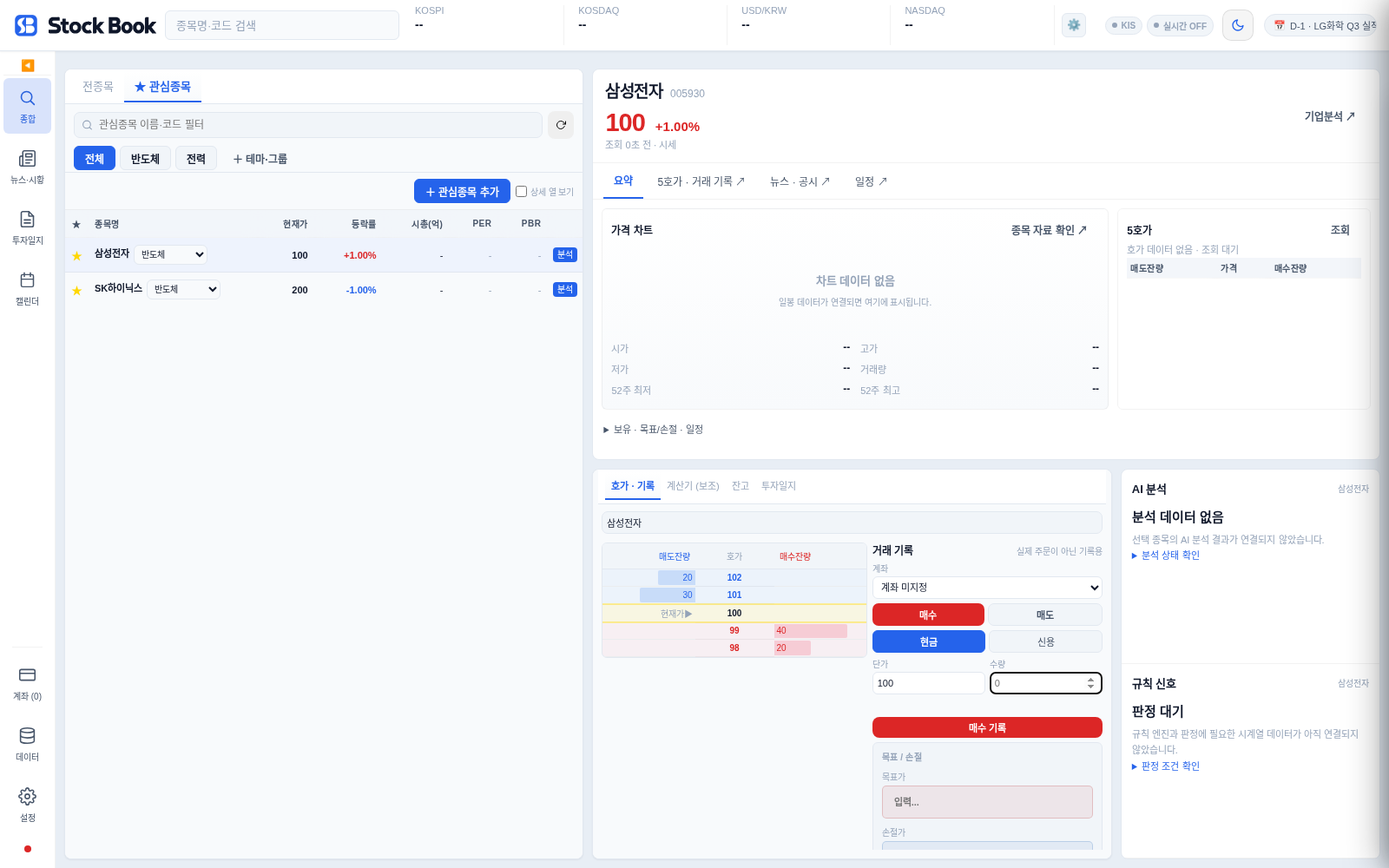
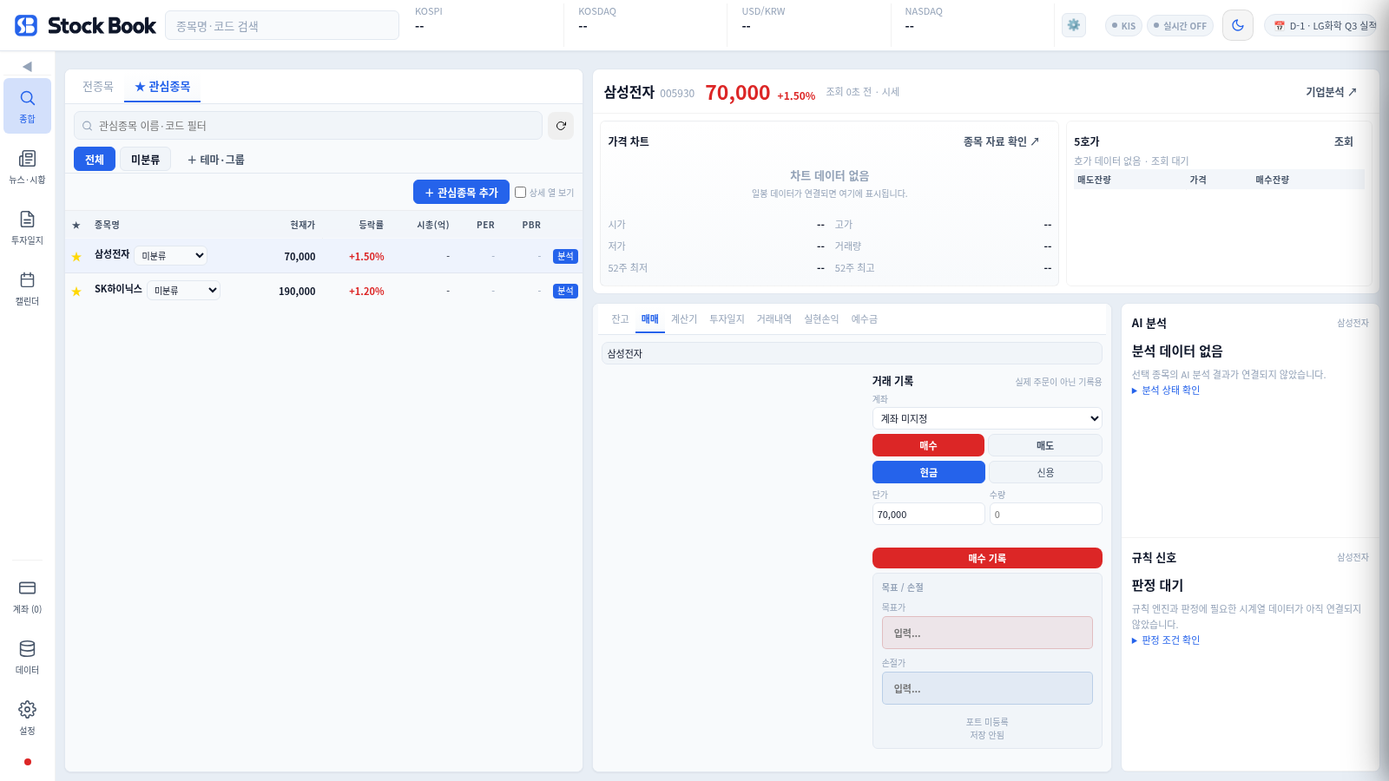
fix(ui): 종합 작업 탭과 표 중심 잔고 화면 정리

diff --git a/index.html b/index.html
@@ -3429,6 +3429,70 @@
   .mdi-dock #qo_hoga_split > div:last-child > * { grid-column:1/-1; }
   .mdi-dock #qo_hoga_split > div:last-child > .sb-trade-number { grid-column:auto;min-width:0; }
 
+
+  /* Compact quote stage, shared task strip and space for the working forms. */
+  @media (min-width: 901px) {
+    .mdi-dock.sb-desktop-home { grid-template-rows:0 minmax(240px, .65fr) minmax(360px, 1.35fr); }
+    .mdi-dock[data-dock-screen="news"] { grid-template-columns:minmax(240px,1fr) minmax(0,2fr) minmax(0,1fr); }
+  }
+  .sb-detail-head { padding:8px 12px;gap:8px; }
+  .sb-detail-head > div:first-child { display:flex;align-items:center;gap:12px;flex-wrap:wrap; }
+  .sb-detail-identity { gap:6px; }
+  .dock-ctx__name { font-size:16px;letter-spacing:0; }
+  .dock-ctx__price { font-size:23px;letter-spacing:0; }
+  .dock-ctx__chg { font-size:12px; }
+  .sb-detail-price { margin:0;gap:8px; }
+  #dockCtxQuote { font-size:11px; }
+  .sb-market-stage { padding:8px;gap:8px;grid-template-columns:minmax(0,3fr) minmax(160px,2fr); }
+  .sb-data-empty { min-height:70px;gap:4px; }
+  .sb-chart-region,.sb-order-region { padding:8px; }
+  .mdi-dock .sb-task-tabs { gap:0;padding:0 4px;min-height:36px;overflow-x:auto;scrollbar-width:thin; }
+  .mdi-dock .sb-task-tabs .mdi-ptab { flex:0 0 auto;padding:9px 8px!important;font-size:12px!important;white-space:nowrap; }
+  .mdi-dock.sb-desktop-home .pf-stats { grid-template-columns:repeat(4,minmax(0,1fr)); }
+  #mdi-panel-portfolio .section-row > .sb-table-options { margin-left:auto; }
+  .ic-body { grid-template-columns:minmax(0,1.1fr) minmax(0,1fr);grid-template-rows:minmax(0,1fr); }
+  .mdi-dock[data-dock-screen="news"] #watchlistBody.sb-compact-quotes table { min-width:0!important;width:100%; }
+  .mdi-dock[data-dock-screen="news"] #watchlistBody.sb-compact-quotes :is(th,td):not(:nth-child(1)):not(:nth-child(2)):not(:nth-child(5)) { display:none; }
+  .mdi-dock[data-dock-screen="news"] .sb-table-options > label { display:none; }
+  .ic-row { padding:8px;line-height:1.5; }
+  .ic-row .ic-title { white-space:normal;display:-webkit-box;-webkit-line-clamp:2;-webkit-box-orient:vertical; }
+  .ic-detail { max-height:none;border-top:0; }
+  .ic-detail h3 { font-size:18px;line-height:1.5; }
+  .ic-sum { font-size:14px;line-height:1.8; }
+  .sb-news-tools { display:grid;grid-template-columns:minmax(140px,1fr) auto minmax(140px,1fr); }
+  #icSearchStatus { grid-column:1/-1; }
+  @media (min-width:901px) and (max-width:1200px) {
+    .mdi-dock .sb-task-tabs .mdi-ptab { padding:9px 5px!important;font-size:11px!important; }
+    .mdi-dock.sb-desktop-home .pf-stats { grid-template-columns:repeat(2,minmax(0,1fr)); }
+  }
+  @media(max-width:900px) {
+    .ic-body { grid-template-columns:minmax(0,1fr);grid-template-rows:minmax(180px,1fr) minmax(180px,1fr); }
+    .ic-detail { border-top:1px solid var(--sb-border); }
+    .sb-news-tools { grid-template-columns:minmax(0,1fr) auto; }
+    .sb-news-tools label:last-of-type { grid-column:1/-1; }
+    .mdi-dock.sb-desktop-home .pf-stats { grid-template-columns:repeat(2,minmax(0,1fr)); }
+  }
+
+
+  /* Balance is a table workspace: a flat summary, with secondary figures on demand. */
+  #htsSummary .sb-balance-totals { display:grid;grid-template-columns:repeat(2,minmax(0,1fr));gap:0;padding:0;margin:6px 0;border-top:1px solid var(--sb-border);border-left:1px solid var(--sb-border); }
+  #htsSummary .sb-balance-metric { display:grid;grid-template-columns:64px minmax(0,1fr);align-items:baseline;gap:2px 8px;margin:0;padding:0 8px 0 0;border:0;border-right:1px solid var(--sb-border);border-bottom:1px solid var(--sb-border);border-radius:0;background:none;box-shadow:none;color:var(--sb-text-1);font:inherit;font-size:14px;text-align:left;min-width:0; }
+  #htsSummary button.sb-balance-metric { cursor:pointer; }
+  #htsSummary button.sb-balance-metric:hover > span { color:var(--sb-accent);text-decoration:underline; }
+  #htsSummary button.sb-balance-metric:focus-visible { outline:2px solid var(--sb-accent);outline-offset:3px; }
+  .sb-balance-metric > span { grid-row:1 / 3;align-self:stretch;display:flex;align-items:center;padding:7px 6px;background:var(--sb-surface);color:var(--sb-text-2);font-size:12px; }
+  .sb-balance-metric b,.sb-balance-metric small { font-family:var(--sb-font-num);font-variant-numeric:tabular-nums;overflow-wrap:anywhere; }
+  .sb-balance-metric b { font-size:15px;text-align:right;padding-top:5px; }
+  .sb-balance-metric small { grid-column:2;font-size:12px;text-align:right;padding-bottom:5px; }
+  .sb-balance-more { font-size:12px;color:var(--sb-text-2);padding:6px 0; }
+  .sb-balance-more > summary { cursor:pointer;width:fit-content; }
+  #mdi-panel-portfolio .sb-balance-more .hts-s2r-sub { border:0;border-radius:0;background:none;padding:6px 0; }
+
+  .sb-cash-summary { width:100%;border-collapse:collapse;border-block:1px solid var(--sb-border); }
+  #mdi-panel-portfolio .sb-cash-summary th { width:110px;font-size:12px;text-align:left;background:var(--sb-surface); }
+  #mdi-panel-portfolio .sb-cash-summary td { font-family:var(--sb-font-num);font-size:15px;padding:8px;text-align:right; }
+  #mdi-ptc-portfolio-rlz > .card { border:0;border-radius:0;box-shadow:none;background:none;padding:8px 0; }
+
 </style>
 </head>
 <body>
@@ -4037,18 +4101,18 @@
         </select>
       </div>
     </div>
-    <div id="realizedSummary" style="display:grid;grid-template-columns:repeat(3,1fr);gap:10px;margin-top:10px;">
-      <div style="background:var(--bg3);border:1px solid var(--border);border-radius:8px;padding:12px;text-align:center;">
-        <div style="font-size:11px;color:var(--text3);margin-bottom:4px;">총 매도 횟수</div>
-        <div id="rs_count" style="font-size:20px;font-weight:700;">-</div>
+    <div id="realizedSummary" style="display:grid;grid-template-columns:repeat(3,minmax(0,1fr));gap:0;margin-top:8px;">
+      <div style="border-bottom:1px solid var(--sb-border);padding:6px 8px;text-align:right;">
+        <div style="font-size:12px;color:var(--sb-text-2);margin-bottom:4px;text-align:left;">총 매도 횟수</div>
+        <div id="rs_count" style="font-size:15px;font-weight:700;">-</div>
       </div>
-      <div style="background:var(--bg3);border:1px solid var(--border);border-radius:8px;padding:12px;text-align:center;">
-        <div style="font-size:11px;color:var(--text3);margin-bottom:4px;">실현 손익 합계</div>
-        <div id="rs_total" style="font-size:18px;font-weight:700;">-</div>
+      <div style="border-bottom:1px solid var(--sb-border);padding:6px 8px;text-align:right;">
+        <div style="font-size:12px;color:var(--sb-text-2);margin-bottom:4px;text-align:left;">실현 손익 합계</div>
+        <div id="rs_total" style="font-size:15px;font-weight:700;">-</div>
       </div>
-      <div style="background:var(--bg3);border:1px solid var(--border);border-radius:8px;padding:12px;text-align:center;">
-        <div style="font-size:11px;color:var(--text3);margin-bottom:4px;">평균 수익률</div>
-        <div id="rs_avg" style="font-size:18px;font-weight:700;">-</div>
+      <div style="border-bottom:1px solid var(--sb-border);padding:6px 8px;text-align:right;">
+        <div style="font-size:12px;color:var(--sb-text-2);margin-bottom:4px;text-align:left;">평균 수익률</div>
+        <div id="rs_avg" style="font-size:15px;font-weight:700;">-</div>
       </div>
     </div>
   </div>
@@ -4415,9 +4479,6 @@
           <div class="sb-detail-price"><strong class="dock-ctx__price" id="dockCtxPrice">--</strong><span class="dock-ctx__chg" id="dockCtxChg">--</span></div>
           <div class="dock-ctx__none" id="dockCtxStatus" role="status"></div>
         </div><button type="button" class="sb-btn sb-btn--ghost sb-btn--sm" onclick="dockCtxAction('chart')">기업분석 ↗</button></div>
-        <div class="sb-detail-tabs" aria-label="선택 종목 메뉴">
-          <button type="button" class="active">요약</button><button type="button" onclick="dockCtxAction('hoga')">5호가 · 거래 기록 ↗</button><button type="button" onclick="dockCtxAction('news')">뉴스 · 공시 ↗</button><button type="button" onclick="dockCtxAction('cal')">일정 ↗</button>
-        </div>
         <div class="sb-market-stage">
           <section class="sb-chart-region" aria-label="선택 종목 차트"><div class="sb-region-title"><strong>가격 차트</strong><button type="button" class="sb-btn sb-btn--ghost sb-btn--sm" onclick="dockCtxAction('chart')">종목 자료 확인 ↗</button></div><div class="sb-data-empty"><strong>차트 데이터 없음</strong><span>일봉 데이터가 연결되면 여기에 표시됩니다.</span></div><div class="dock-ctx__rows dock-ctx__quote-grid" id="dockCtxQuote"></div></section>
           <section class="sb-order-region" aria-label="선택 종목 5호가"><div class="sb-region-title"><strong>5호가</strong><button type="button" class="sb-btn sb-btn--ghost sb-btn--sm" id="sbHogaRefresh" onclick="sbDesktopHoga()">조회</button></div><div id="sbHogaStatus" class="dock-ctx__none" role="status">호가 데이터 없음 · 조회 대기</div><table class="sb-hoga-table"><thead><tr><th>매도잔량</th><th>가격</th><th>매수잔량</th></tr></thead><tbody id="sbHogaRows"></tbody></table></section>
@@ -7303,8 +7364,7 @@ function connectToHoga(code, name) {
     if (hidden && window._MDI?.open) window._MDI.open('trading');
   }
   // 주문/호가 탭 활성화 (첫 번째 탭)
-  const hogaTab = panel?.querySelector('.mdi-ptab');
-  if (hogaTab) hogaTab.click();
+  window._MDIPanelTab?.('trading','ord');
   // 전종목 패널을 뒤로 보내기
   const allPanel = document.getElementById('mdi-panel-allstock');
   if (allPanel) allPanel.style.zIndex = '100';
@@ -8237,39 +8297,23 @@ function renderSummary() {
   const exClick = filterAcct
     ? ((filterAcct.broker === 'kis' && !filterAcct.isManual) ? '' : `onclick="showCashEditForm('${filterAcct.id}')"`)
     : (accounts.length > 0 ? `onclick="showToast('💡 계좌를 선택하면 해당 계좌 예수금을 편집할 수 있습니다')"` : `onclick="openCashModal()"`);
-  // 순자산총액 항상 전체 합산 — 계좌 필터 무관
-  const netLbl = hasEx ? '합산' : '';
-
-  // Row1: 순자산총액(전체고정) | 총평가금액(필터) | 총평가손익(필터)
-  // Row2 (sub): 예수금(필터) | 총매입금액 | 총수익률 | 실현손익 | 투자비중 | 보유
-  // 헤더(4단계)와 동일한 계산 함수·컴포넌트(.sb-stat) 사용
+  // 전체 계좌 요약은 2줄 표로, 계좌 필터 기준의 세부 지표는 접어서 표시한다.
+  const detailsOpen = el.querySelector('.sb-balance-more')?.open;
   const _as = window.calcAssetSummary();
   const _tone = v => v > 0 ? 'sb-up' : v < 0 ? 'sb-down' : 'sb-flat';
   const _sg = v => v >= 0 ? '+' : '-';
-  const _edit = (fn, t) => `<button type="button" class="sb-btn sb-btn--ghost sb-btn--sm pf-stat-edit" onclick="${fn}" title="${t}">수정</button>`;
   el.innerHTML = `
-    <div class="pf-stats">
-      <div class="sb-stat">
-        <span class="sb-stat__label">총자산 ${_edit('openTotalAssetModal()', '총 자산 설정')}</span>
-        <span class="sb-stat__value">₩${fmt(Math.round(_as.total))}</span>
-        <span class="sb-stat__sub">${netLbl ? '계좌 합산' : '&nbsp;'}</span>
-      </div>
-      <div class="sb-stat">
-        <span class="sb-stat__label">예수금 ${_edit('openCashModal()', '예수금 직접 설정')}</span>
-        <span class="sb-stat__value">₩${fmt(Math.round(_as.cash))}</span>
-        <span class="sb-stat__sub">&nbsp;</span>
-      </div>
-      <div class="sb-stat">
-        <span class="sb-stat__label">평가손익</span>
-        <span class="sb-stat__value ${_tone(_as.pnl)}">${_sg(_as.pnl)}${fmt(Math.round(Math.abs(_as.pnl)))}</span>
-        <span class="sb-stat__sub ${_tone(_as.pnl)}">${_sg(_as.rate)}${Math.abs(_as.rate).toFixed(2)}%</span>
-      </div>
-      <div class="sb-stat">
-        <span class="sb-stat__label">당일손익</span>
-        <span class="sb-stat__value ${_tone(_as.dayPnl)}">${_sg(_as.dayPnl)}${fmt(Math.round(Math.abs(_as.dayPnl)))}</span>
-        <span class="sb-stat__sub ${_tone(_as.dayPnl)}">${_sg(_as.dayRate)}${Math.abs(_as.dayRate).toFixed(2)}%</span>
-      </div>
+    <div class="sb-balance-totals" aria-label="전체 계좌 자산 요약">
+      <button type="button" class="sb-balance-metric" onclick="openTotalAssetModal()" title="전체 계좌 총자산 · 클릭하여 설정">
+        <span>총자산</span><b>₩${fmt(Math.round(_as.total))}</b>
+      </button>
+      <button type="button" class="sb-balance-metric" onclick="openCashModal()" title="전체 계좌 예수금 · 클릭하여 설정">
+        <span>예수금</span><b>₩${fmt(Math.round(_as.cash))}</b>
+      </button>
+      <div class="sb-balance-metric"><span>평가손익</span><b class="${_tone(_as.pnl)}">${_sg(_as.pnl)}${fmt(Math.round(Math.abs(_as.pnl)))}</b><small class="${_tone(_as.pnl)}">${_sg(_as.rate)}${Math.abs(_as.rate).toFixed(2)}%</small></div>
+      <div class="sb-balance-metric"><span>당일손익</span><b class="${_tone(_as.dayPnl)}">${_sg(_as.dayPnl)}${fmt(Math.round(Math.abs(_as.dayPnl)))}</b><small class="${_tone(_as.dayPnl)}">${_sg(_as.dayRate)}${Math.abs(_as.dayRate).toFixed(2)}%</small></div>
     </div>
+    <details class="sb-balance-more"${detailsOpen ? ' open' : ''}><summary>평가·매입 상세</summary>
     <div class="hts-s2r-sub">
       <div class="hts-s2r-sub-item${exClick?' clickable':''}" ${exClick}>
         <span class="s2r-sl">예수금</span>
@@ -8299,7 +8343,7 @@ function renderSummary() {
         <span class="s2r-sl">보유</span>
         <span class="s2r-sv">${p.length}종목</span>
       </div>
-    </div>`;
+    </div></details>`;
   try { renderBalanceSummary(); } catch(e) {}
 }
 
@@ -12220,7 +12264,16 @@ function icPickStock() {
   const code=candidate?.code||(/^\d{6}$/.test(raw)?raw:'');
   const status=document.getElementById('icSearchStatus');
   if(!/^\d{6}$/.test(code)){if(status)status.textContent='목록에서 국내 종목을 선택하거나 6자리 코드를 입력하세요.';return;}
-  _ic.selectedCode=code;_ic.scope='sel';if(status)status.textContent=(candidate?.name||code)+' 종목뉴스';icSetTab('stock');
+  icSelectStock(code);
+}
+function icSelectStock(code) {
+  const name = _icStockName(code);
+  const input = document.getElementById('icStockSearch');
+  const status = document.getElementById('icSearchStatus');
+  if (input) input.value = name === code ? code : name + ' ' + code;
+  if (status) status.textContent = name + ' 종목뉴스';
+  _ic.selectedCode = code; _ic.scope = 'sel';
+  icSetTab('stock');
 }
 function sbDesktopSearch(value) {
   if (document.getElementById('mdiWorkspace')?.dataset.dockScreen === 'news') {
@@ -12245,16 +12298,34 @@ function sbDesktopAction(action) {
   if (action === 'holding') setQOMode('buy');
   document.getElementById('qo_qty')?.focus();
 }
+function sbWorkTab(key) {
+  const pid = key === 'journal' ? 'journal' : ['ord','calc'].includes(key) ? 'trading' : 'portfolio';
+  window._MDI.show(pid);
+  if (pid !== 'journal') window._MDIPanelTab(pid,key);
+  if (key === 'ord') {
+    const stock = (state.watchlist || []).find(w=>w.ticker===window._dockSel);
+    if (stock) connectToHoga(stock.ticker,stock.name || stock.ticker);
+  }
+  if (key === 'trd') renderTrades();
+  if (key === 'cash') sbDesktopCash();
+  sbSyncWorkTabs();
+}
+function sbSyncWorkTabs() {
+  const screen = document.getElementById('mdiWorkspace')?.dataset.dockScreen;
+  const pid = ['trading','journal'].includes(screen) ? screen : 'portfolio';
+  const pane = [...(document.getElementById('mdi-body-' + pid)?.querySelectorAll(':scope > .mdi-ptab-pane') || [])].find(p=>p.style.display !== 'none');
+  const key = pid === 'journal' ? 'journal' : pane?.id.replace('mdi-ptc-' + pid + '-', '') || 'pf';
+  document.querySelectorAll('[data-work-tab]').forEach(button=>{
+    const active = button.dataset.workTab === key;
+    button.classList.toggle('active',active);
+    if (active) button.setAttribute('aria-current','page'); else button.removeAttribute('aria-current');
+  });
+}
 function sbDesktopMount() {
   const row = document.querySelector('.hdr-row1');
   const indices = document.querySelector('.hdr-group--idx');
   const status = document.getElementById('hdrStatus');
   if (row && indices && status) row.insertBefore(indices, status);
-  const toolbar = document.createElement('div');
-  toolbar.className = 'sb-work-toolbar';
-  toolbar.innerHTML = '<strong>내 포트폴리오</strong><button type="button" class="sb-btn sb-btn--ghost sb-btn--sm" onclick="sbDesktopAction(\'holding\')">보유종목 추가</button><button type="button" class="sb-btn sb-btn--secondary sb-btn--sm" onclick="sbDesktopAction(\'journal\')">빠른 일지</button><button type="button" class="sb-btn sb-btn--primary sb-btn--sm" onclick="sbDesktopAction(\'trade\')">＋ 거래 등록</button>';
-  const summary = document.getElementById('htsSummary');
-  summary?.before(toolbar);
   const wlBody = document.getElementById('watchlistBody');
   wlBody?.classList.add('sb-compact-quotes');
   const options = document.createElement('div'); options.className = 'sb-table-options';
@@ -12266,26 +12337,29 @@ function sbDesktopMount() {
   const pfOptions = document.createElement('label'); pfOptions.className = 'sb-table-options';
   pfOptions.innerHTML = '<input type="checkbox" id="sbHoldingColumns"> 상세 열';
   pfOptions.querySelector('input').onchange = e => pfBody?.classList.toggle('sb-compact-holdings', !e.target.checked);
-  toolbar.prepend(pfOptions);
+  pfBody?.querySelector('#mdi-ptc-portfolio-pf .section-row')?.appendChild(pfOptions);
   const tabBar = pfBody?.querySelector('.mdi-ptab-bar');
   const cashTab = document.createElement('button'); cashTab.type='button'; cashTab.className='mdi-ptab';
   cashTab.textContent='예수금'; cashTab.setAttribute('onclick', "window._MDIPanelTab('portfolio','cash');sbDesktopCash()"); tabBar?.appendChild(cashTab);
   const cashPane = document.createElement('div'); cashPane.className='mdi-ptab-pane'; cashPane.id='mdi-ptc-portfolio-cash'; cashPane.style.display='none';
-  cashPane.innerHTML='<div class="sb-work-toolbar"><strong>계좌 · 예수금</strong><button type="button" class="sb-btn sb-btn--secondary sb-btn--sm" onclick="openAccountPanel()">계좌 관리</button><button type="button" class="sb-btn sb-btn--primary sb-btn--sm" onclick="openCashManualModal()">예수금 설정</button></div><section class="sb-detail-card"><h3>내 예수금</h3><strong id="sbDesktopCashBalance" style="font-size:24px"></strong></section><div class="table-wrap" style="margin-top:12px"><table><thead><tr><th>계좌명</th><th>증권사</th><th>저장된 예수금</th></tr></thead><tbody id="sbDesktopAccountRows"></tbody></table></div><div id="sbDesktopAccountEmpty" class="empty-state">등록된 계좌가 없습니다. 계좌 관리에서 추가하세요.</div>';
+  cashPane.innerHTML='<div class="sb-work-toolbar"><strong>계좌 · 예수금</strong><button type="button" class="sb-btn sb-btn--secondary sb-btn--sm" onclick="openAccountPanel()">계좌 관리</button><button type="button" class="sb-btn sb-btn--primary sb-btn--sm" onclick="openCashManualModal()">예수금 설정</button></div><table class="sb-cash-summary"><tbody><tr><th scope="row">예수금 합계</th><td><strong id="sbDesktopCashBalance"></strong></td></tr></tbody></table><div class="table-wrap" style="margin-top:12px"><table><thead><tr><th>계좌명</th><th>증권사</th><th>저장된 예수금</th></tr></thead><tbody id="sbDesktopAccountRows"></tbody></table></div><div id="sbDesktopAccountEmpty" class="empty-state">등록된 계좌가 없습니다. 계좌 관리에서 추가하세요.</div>';
   pfBody?.appendChild(cashPane);
-  const tradeTab=document.createElement('button');tradeTab.type='button';tradeTab.className='mdi-ptab';tradeTab.textContent='호가·거래 기록';tradeTab.onclick=()=>sbDesktopAction('trade');tabBar?.appendChild(tradeTab);
-  const journalTab=document.createElement('button');journalTab.type='button';journalTab.className='mdi-ptab';journalTab.textContent='투자일지';journalTab.onclick=()=>window._MDI.show('journal');tabBar?.appendChild(journalTab);
-  const journalTabs=document.createElement('div');journalTabs.className='mdi-ptab-bar';
-  journalTabs.innerHTML='<button type="button" class="mdi-ptab" onclick="window._MDI.show(\'portfolio\');window._MDIPanelTab(\'portfolio\',\'pf\')">잔고</button><button type="button" class="mdi-ptab" onclick="window._MDI.show(\'portfolio\');window._MDIPanelTab(\'portfolio\',\'trd\');renderTrades()">거래내역</button><button type="button" class="mdi-ptab active">투자일지</button>';
-  document.getElementById('mdi-body-journal')?.prepend(journalTabs);
+  // One persistent task strip across the existing panels; keep their forms and ids intact.
+  for (const pid of ['portfolio','trading','journal']) {
+    const body = document.getElementById('mdi-body-' + pid);
+    body?.querySelector(':scope > .mdi-ptab-bar')?.remove();
+    const tabs = document.createElement('div'); tabs.className = 'mdi-ptab-bar sb-task-tabs';
+    tabs.setAttribute('aria-label','종합 작업');
+    for (const [key,label] of [['pf','잔고'],['ord','매매'],['calc','계산기'],['journal','투자일지'],['trd','거래내역'],['rlz','실현손익'],['cash','예수금']]) {
+      const button = document.createElement('button'); button.type='button';button.className='mdi-ptab';
+      button.dataset.workTab=key;button.textContent=label;button.onclick=()=>sbWorkTab(key);tabs.appendChild(button);
+    }
+    body?.prepend(tabs);
+  }
+  sbSyncWorkTabs();
   const pfTab = document.querySelector('#mdi-body-portfolio .mdi-ptab');
   if (pfTab) pfTab.textContent = '잔고';
-  // Existing navigation ids remain intact. Add shortcuts rather than rename data-pid.
   for(const id of ['qo_price','qo_qty']) document.getElementById(id)?.parentElement.classList.add('sb-trade-number');
-  const tradeTabs=document.querySelector('#mdi-body-trading > .mdi-ptab-bar');
-  for (const [label,pid] of [['잔고','portfolio'],['투자일지','journal']]) {
-    const button=document.createElement('button');button.type='button';button.className='mdi-ptab';button.textContent=label;button.onclick=()=>window._MDI.show(pid);tradeTabs?.appendChild(button);
-  }
   const rail = document.getElementById('mdiSidebar');
   const anchor = document.querySelector('.mdi-sb-section-label');
   const calendar = document.createElement('button'); calendar.type='button'; calendar.className='mdi-sb-btn'; calendar.title='캘린더';
@@ -12362,7 +12436,7 @@ function dockSelectStock(code) {
   const w = state.watchlist.find(w => w.ticker === code);
   const screen=document.getElementById('mdiWorkspace')?.dataset.dockScreen;
   if(screen==='trading') connectToHoga(code,w.name||code);
-  if(screen==='news') { _ic.selectedCode=code;_ic.scope='sel';icSetTab('stock'); }
+  if(screen==='news') icSelectStock(code);
   if (!w.quoteAt || Date.now() - w.quoteAt > 30000) dockLoadQuote(w).then(() => renderWatchlist());
 }
 function dockCtxRender() {
@@ -12994,6 +13068,7 @@ function _toggleCheck(stockKey, checkKey, val) {
       const nm = document.getElementById('dockScreenName');
       if (nm) nm.textContent = this.DOCK_NAMES[pid] || '';
       this._syncAllBtns();
+      sbSyncWorkTabs();
       this._render(pid);
       if (['watchlist','portfolio','journal','trading','news'].includes(pid)) {
         if (pid === 'watchlist') this._render('portfolio');
@@ -13398,7 +13473,7 @@ function _toggleCheck(stockKey, checkKey, val) {
     _syncBtn(pid) {
       const el = document.getElementById('mdi-panel-' + pid);
       const isOpen = this.dock
-        ? document.getElementById('mdiWorkspace')?.dataset.dockScreen === pid
+        ? (document.getElementById('mdiWorkspace')?.dataset.dockScreen === pid || (pid === 'watchlist' && ['portfolio','trading'].includes(document.getElementById('mdiWorkspace')?.dataset.dockScreen)))
         : el && el.dataset.mdiState !== 'closed';
       // 사이드바 버튼 동기화
       document.querySelectorAll('.mdi-sb-btn[data-pid="'+pid+'"]').forEach(btn => {
@@ -13543,6 +13618,7 @@ function _toggleCheck(stockKey, checkKey, val) {
       if (b.getAttribute('onclick') && b.getAttribute('onclick').includes("'" + tabKey + "'"))
         b.classList.add('active');
     });
+    sbSyncWorkTabs();
     // 렌더 트리거
     try {
       if (panelId === 'watchlist') {

diff --git a/docs/design/desktop-usage-review/REVIEW.md b/docs/design/desktop-usage-review/REVIEW.md
@@ -22,7 +22,20 @@
 종목 변경 시 이전 종목의 단가·수량은 초기화하며, 늦게 도착한 이전 종목 호가는 적용하지 않는다.
 현재가를 빈 단가에 채우는 기존 동작과 실제 거래 기록 계산·저장 함수는 유지한다.
 
+## 후속 화면 검토 반영 (2026-10-21)
+
+종합 상단의 중복 작업 버튼과 선택 종목 바로가기 줄을 제거하고, 하단에 잔고·매매·계산기·투자일지·거래내역·실현손익·예수금 공통 탭을 제공한다. 탭을 오가도 거래 입력과 일지 초안을 보존한다.
+종목명·가격을 한 줄로 압축하고 상단 시세·차트 영역을 낮춰 하단 작업 영역을 넓혔다.
+잔고 요약은 큰 카드 대신 항목명과 금액을 정렬한 2줄 표로 바꿨다. 숫자는 15px이며 총자산·예수금 설정 동선을 유지한다. 세부 지표는 접어서 볼 수 있고 갱신 시 펼침 상태를 유지한다. 예수금·실현손익 요약도 표 중심으로 정리했다. 이 표 중심 구성에 사용자 긍정 확인을 받았으며 제품 전체의 최종 승인으로 확대 해석하지 않는다.
+뉴스에서는 왼쪽 종목 목록을 좁히고 목록·상세를 1024px에서도 나란히 배치한다. 종목 전환 시 검색창·안내문·조회 대상이 함께 바뀐다.
+
+후속 검증은 Node 22.23.3, Playwright 1.56.0과 시스템 Chromium 154에서 수행했다. Playwright 번들 브라우저 다운로드는 도메인 정책으로 차단되어 저장소 밖의 실행 설정으로 시스템 Chromium을 선택했다. 테스트 본문·단정은 유지하고, 새 탭 탐색·입력 보존·계산 결과·뉴스 종목 문맥 및 배치 회귀를 추가했다.
+
 ## 화면
+
+- [현재 잔고 영역](balance.png): 합성 데이터로 확인한 표 중심 구성.
+- [현재 종합 화면](overview.png): 선택 종목과 하단 작업 탭의 비율.
+- [1024px 계산기](calculator-1024.png): 종합 하단 탭에서 여는 계산기.
 
 - [호가·거래 기록](trade.png): 합성 가격·잔량이며 실호가 캡처가 아니다.
 - [뉴스 내부 종목 탐색](news.png): 합성 기사이며 실제 기사·요약이 아니다.
